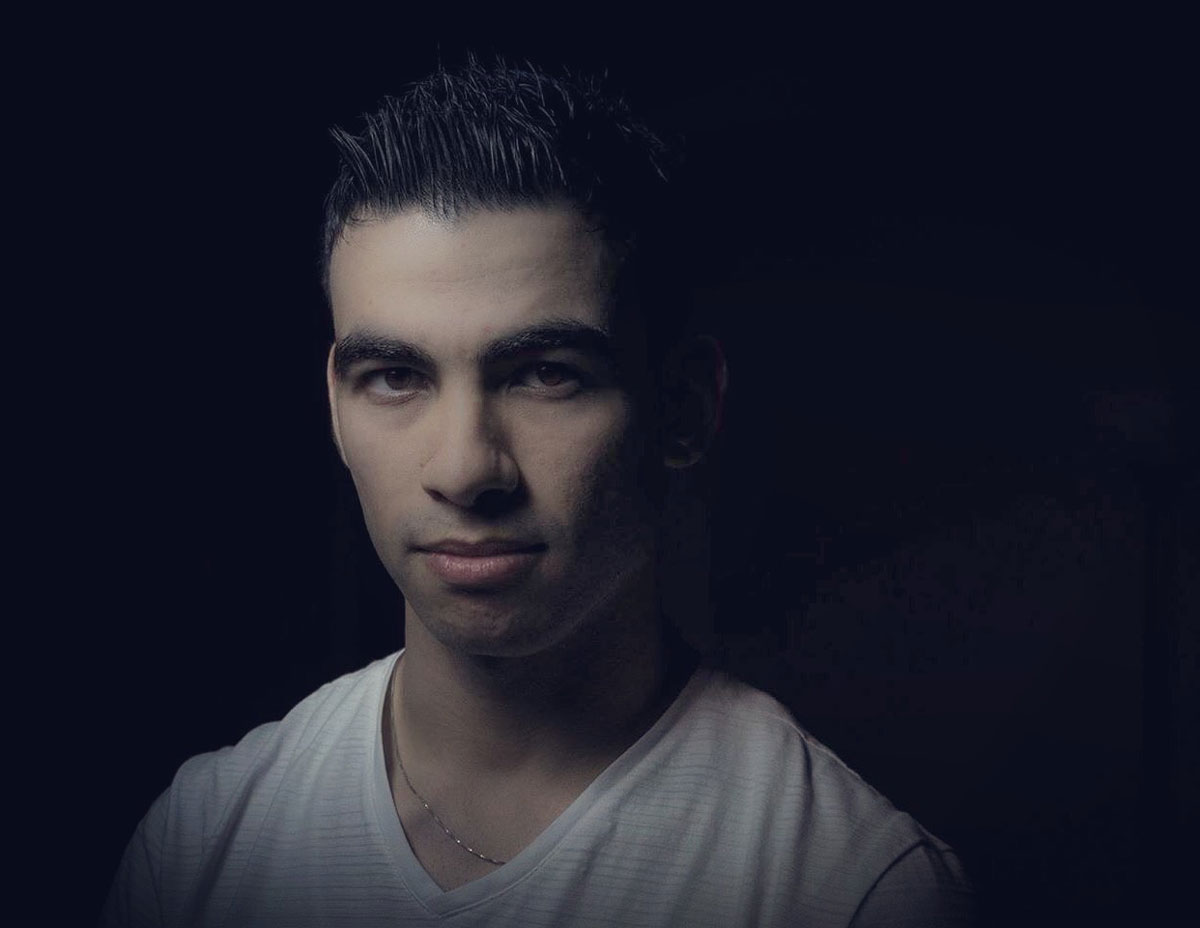
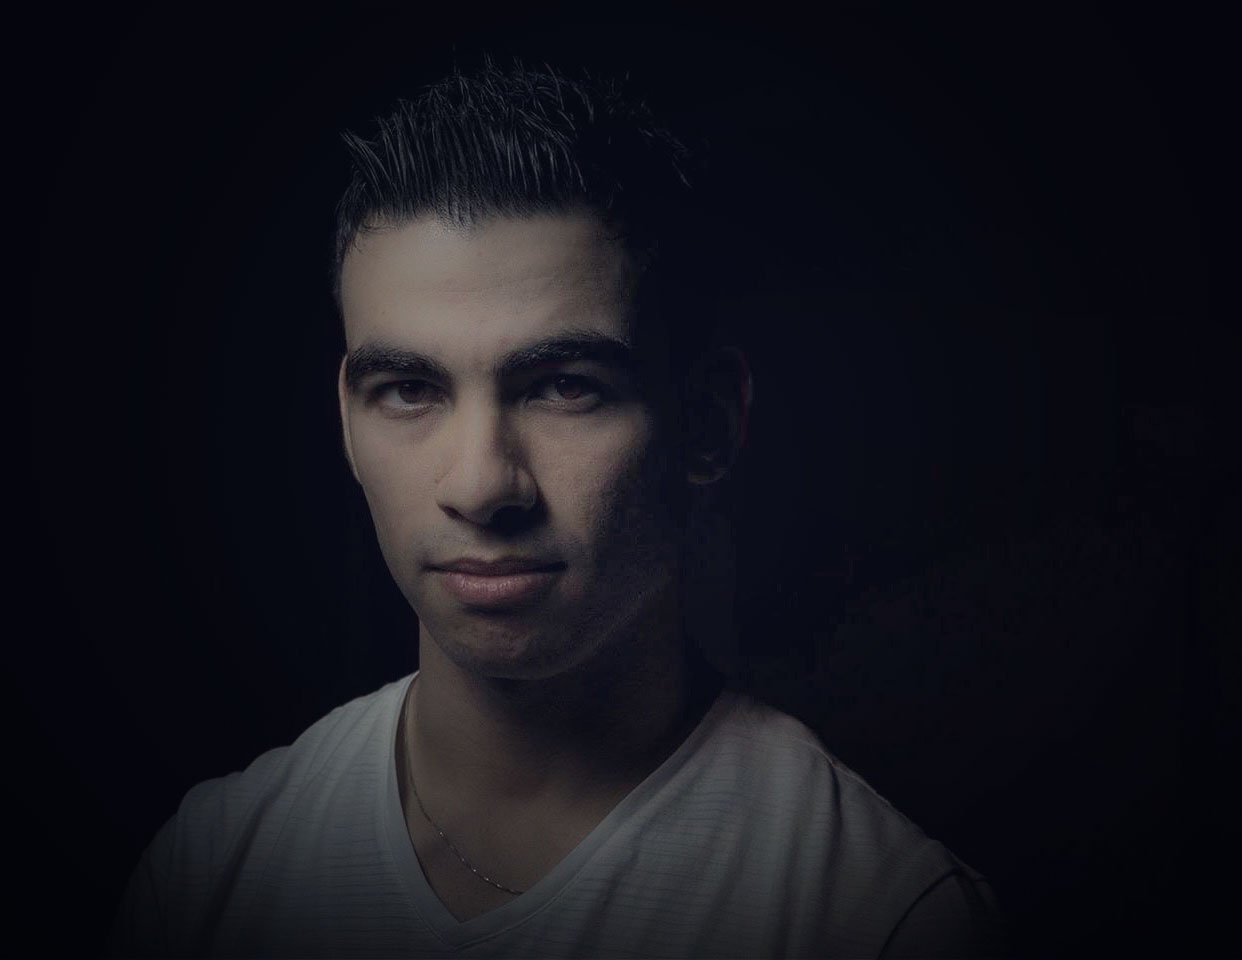
Completed the About section :fire:

diff --git a/index.html b/index.html
@@ -11,6 +11,7 @@
     <!-- CSS links -->
     <link rel="stylesheet" type="text/css" href="css/bootstrap.min.css" />
     <link href="https://fonts.googleapis.com/css?family=Roboto:300,400,700&display=swap" rel="stylesheet" />
+    <link href="https://fonts.googleapis.com/css?family=Montserrat:300,400,700&display=swap" rel="stylesheet">
     <link rel="stylesheet" type="text/css" href="style.css" />
     <link rel="stylesheet" type="text/css" href="css/responsive.css">
     <link rel="stylesheet" type="text/css" href="css/font-awesome.min.css" />
@@ -51,7 +52,7 @@
     <!-- srcset="fonts/svgs/brands/python.svg" /> -->
 
 
-
+    <!-- Main Section - Start -->
     <section class="main d-flex justify-content-center">
         <div id="noorftw"></div>
         <div class="main-content align-self-center">
@@ -75,6 +76,34 @@
 
         </svg>
     </section>
+    <!-- Main Section - End -->
+
+    <!-- About section - Start -->
+    <section class="section-padding about">
+        <div class="container">
+            <div class="row">
+                <div class="col-md-5" class="img-fluid" alt="about image">
+                    <img src="img/about.jpg">
+                </div>
+                <div class="col-md-7">
+                    <h3>About Me</h3>
+                    <h5 class="about-social-icons">Full-Stack Web Developer
+                        <!-- <span class="about-social-icons"> -->
+                        <a href="#"><i class="fa fa-linkedin-square"></i></a>
+                        <a href="#"><i class="fa fa-twitter-square"></i></a>
+                        <a href="#"><i class="fa fa-github-square"></i></a>
+                        <a href="#"><i class="fa fa-youtube-play"></i></a>
+                    </h5>
+                    <p>I'm a Full-Stack Web Developer with a passion for technology and coding ideas to life. Through 2+ years of self-taught programming, I’ve built several webs and CLI applications. I am currently Lambda School's Full Stack Web program
+                        student. Along with my passion for learning, I taught my self how to code and learn a new thing every day. When I’m not smashing the keyboard keys, I enjoy music, going to the gym, travel with the company of my good friends. My
+                        ambition is to become a better software engineer each day by way of personal projects, staying current with industry trends, collaborating with others and pursuing new technical interests to achieve my goal to become an ethical
+                        hacker.
+                    </p>
+                    <a class="about-contact" href="#">Contact</a>
+                </div>
+            </div>
+        </div>
+    </section>
 
     <!-- JavaScript links -->
     <script type="text/javascript" src="js/jquery.min.js"></script>
@@ -85,4 +114,4 @@
     <script type="text/javascript" src="js/main.js"></script>
 </body>
 
-</html>n
+</html>

diff --git a/style.css b/style.css
@@ -16,6 +16,8 @@ body {
     color: #777;
     line-height: 1.5;
     height: 3000px;
+    /* background-color: black; */
+    background-color: #030409;
 }
 
 p {
@@ -223,6 +225,10 @@ button:focus {
     margin-top: 40px;
     position: relative;
     overflow: hidden;
+    transition: all 0.5s ease;
+    -webkit-transition: all 0.5s ease;
+    -moz-transition: all 0.5s ease;
+    -o-transition: all 0.5s ease;
 }
 
 .cta-portfolio {
@@ -288,4 +294,89 @@ canvas {
     width: 100%;
     height: 100%;
     position: absolute;
+}
+
+
+/* About Styles */
+
+.about img {
+    width: 100%;
+    height: 100%;
+}
+
+.about h3 {
+    margin-bottom: 15px;
+    color: #fff;
+}
+
+.about h5 {
+    margin-bottom: 20px;
+    color: #fff;
+}
+
+.about p {
+    font-family: 'Montserrat', sans-serif;
+}
+
+.about-social-icons {
+    margin-top: 20px;
+}
+
+.about-social-icons a {
+    padding: 0 10px;
+    color: #fff;
+}
+
+.about-social-icons .fa-linkedin-square {
+    margin-left: 50px;
+}
+
+.about-social-icons .fa-linkedin-square:hover {
+    color: #0077b5;
+    /* LinkedIN*/
+}
+
+.about-social-icons .fa-twitter-square:hover {
+    color: #1da1f2;
+    /* Twitter */
+}
+
+.about-social-icons .fa-github-square:hover {
+    color: #333;
+    /* Github */
+}
+
+.about-social-icons .fa-youtube-play:hover {
+    color: red;
+    /* Github */
+}
+
+.about-contact {
+    padding: 10px 60px;
+    font-size: 15px;
+    font-weight: bold;
+    display: inline-block;
+    color: #333;
+    border: 1px solid #333;
+    position: relative;
+    overflow: hidden;
+}
+
+.about-contact::after {
+    position: absolute;
+    width: 100%;
+    height: 100%;
+    top: 0;
+    left: -100%;
+    content: '';
+    background-color: #e84118;
+    transition: all 0.3s ease;
+    -webkit-transition: all 0.3s ease;
+    -moz-transition: all 0.3s ease;
+    -o-transition: all 0.3s ease;
+    z-index: -1;
+}
+
+.about-contact:hover::after {
+    left: 0;
 }
